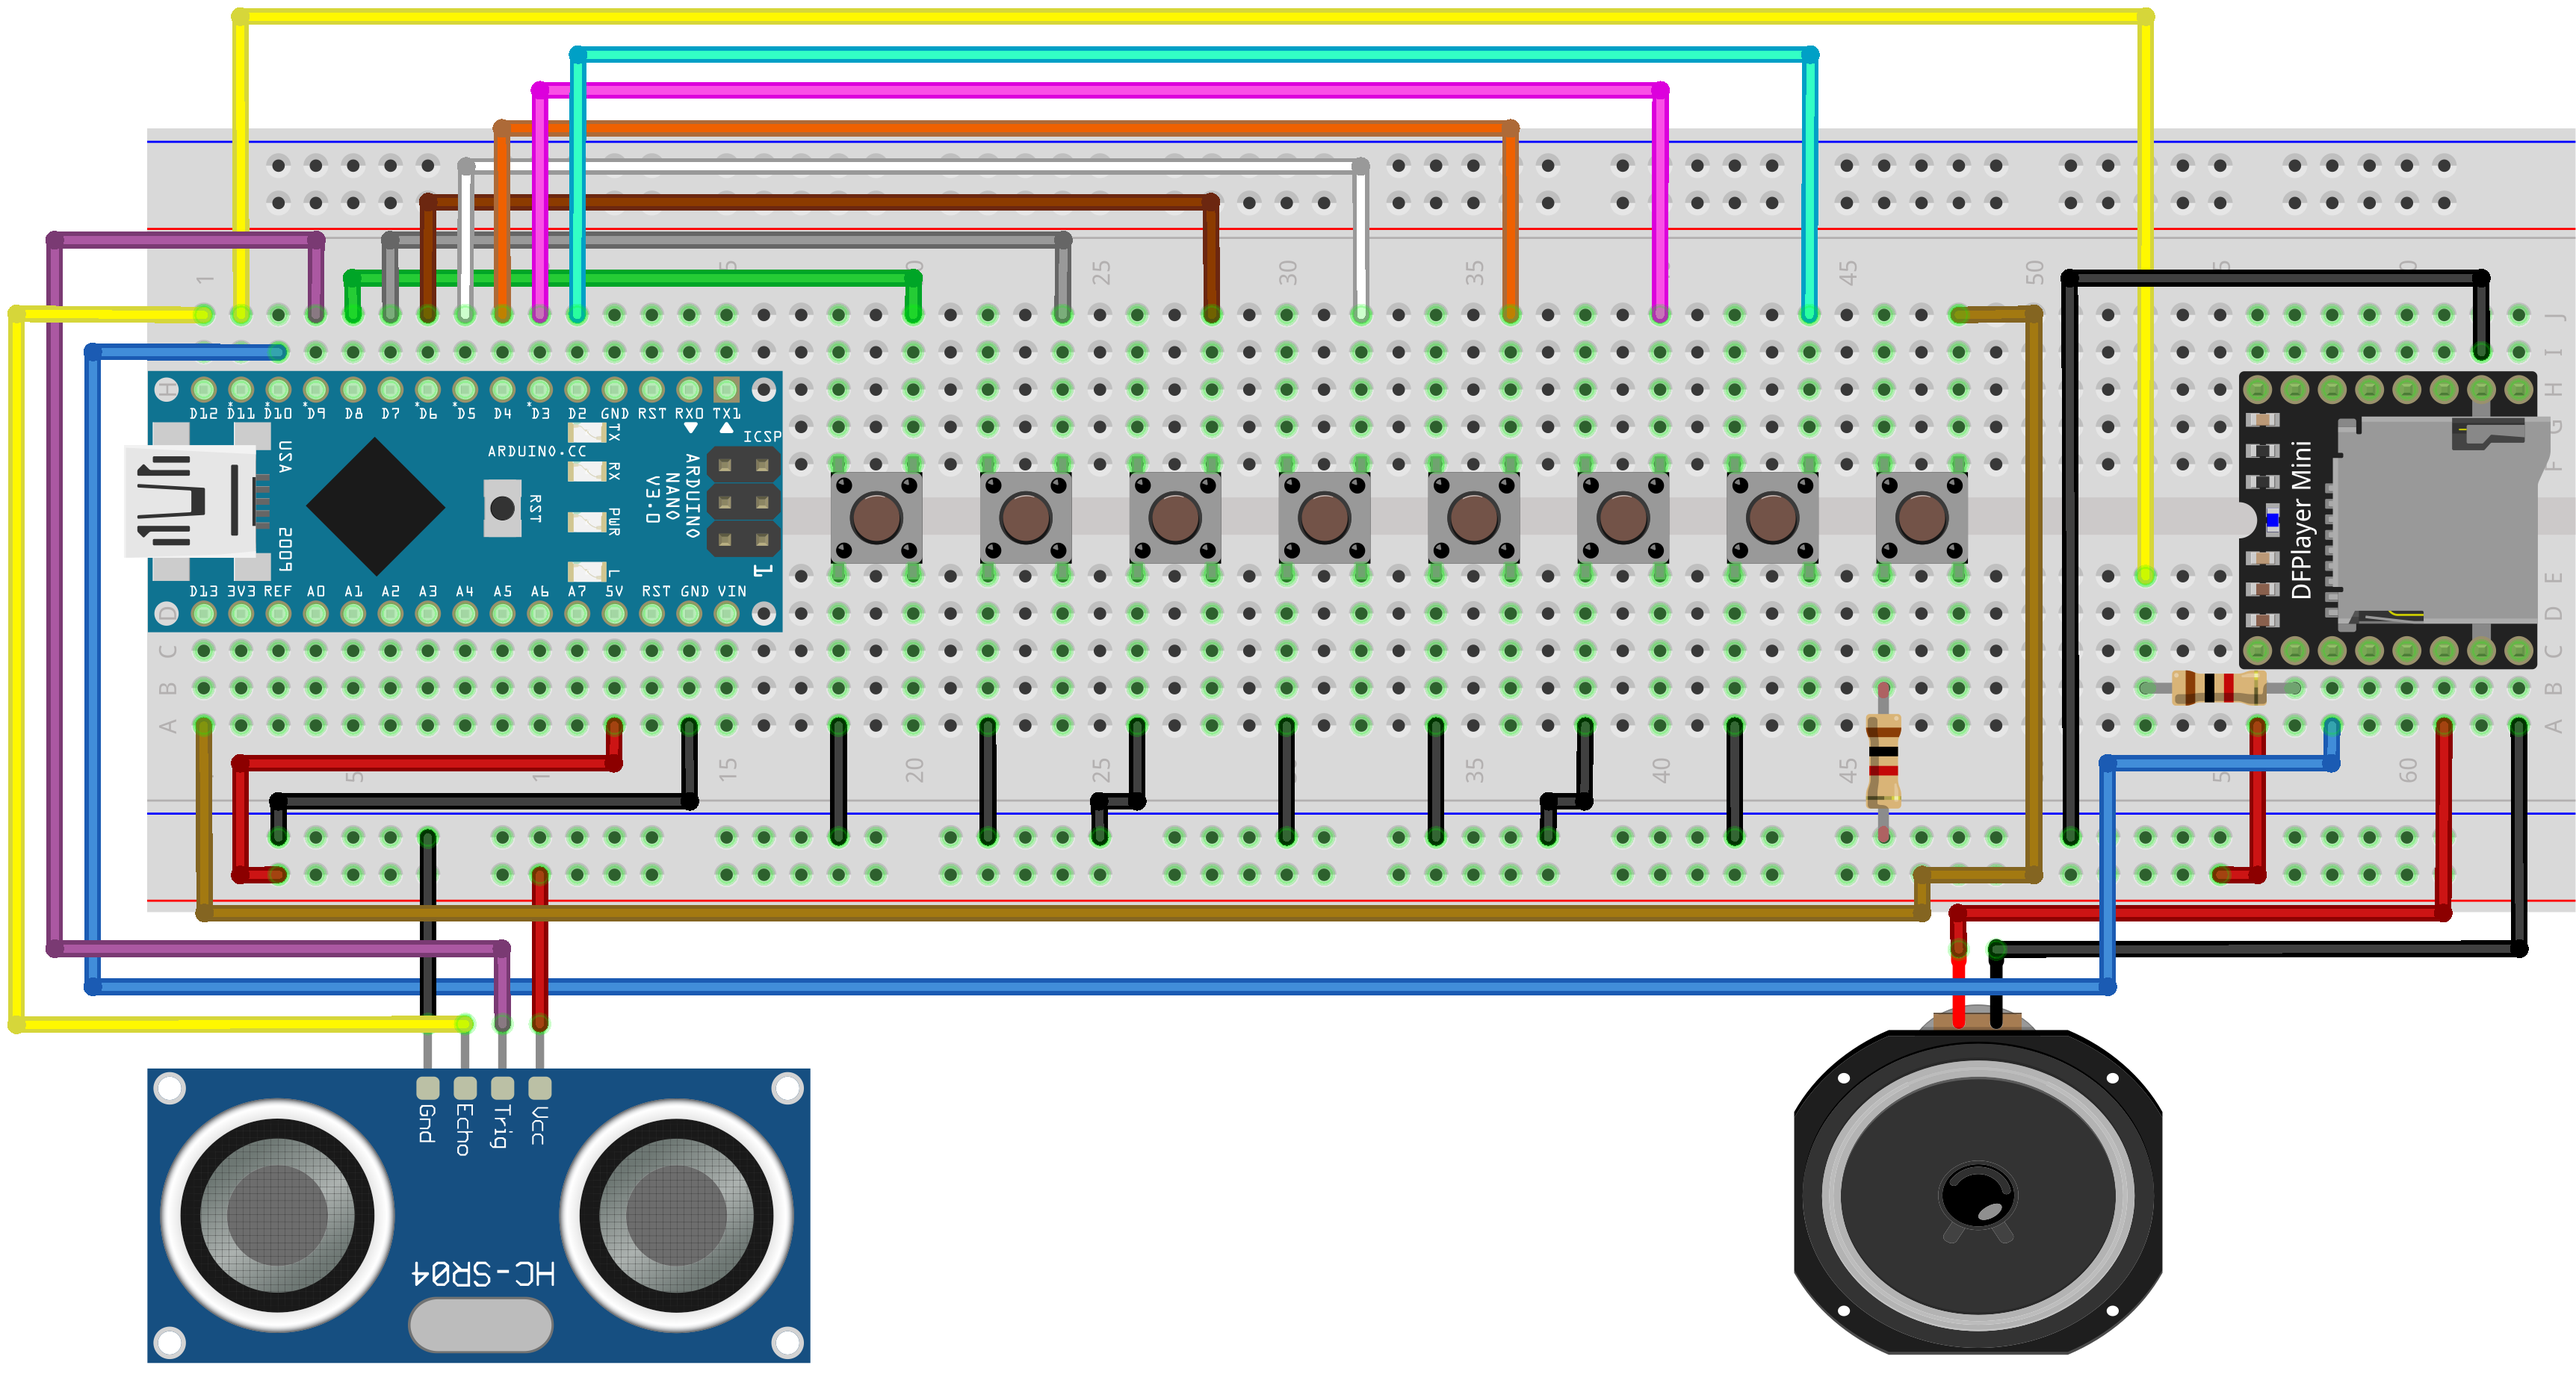
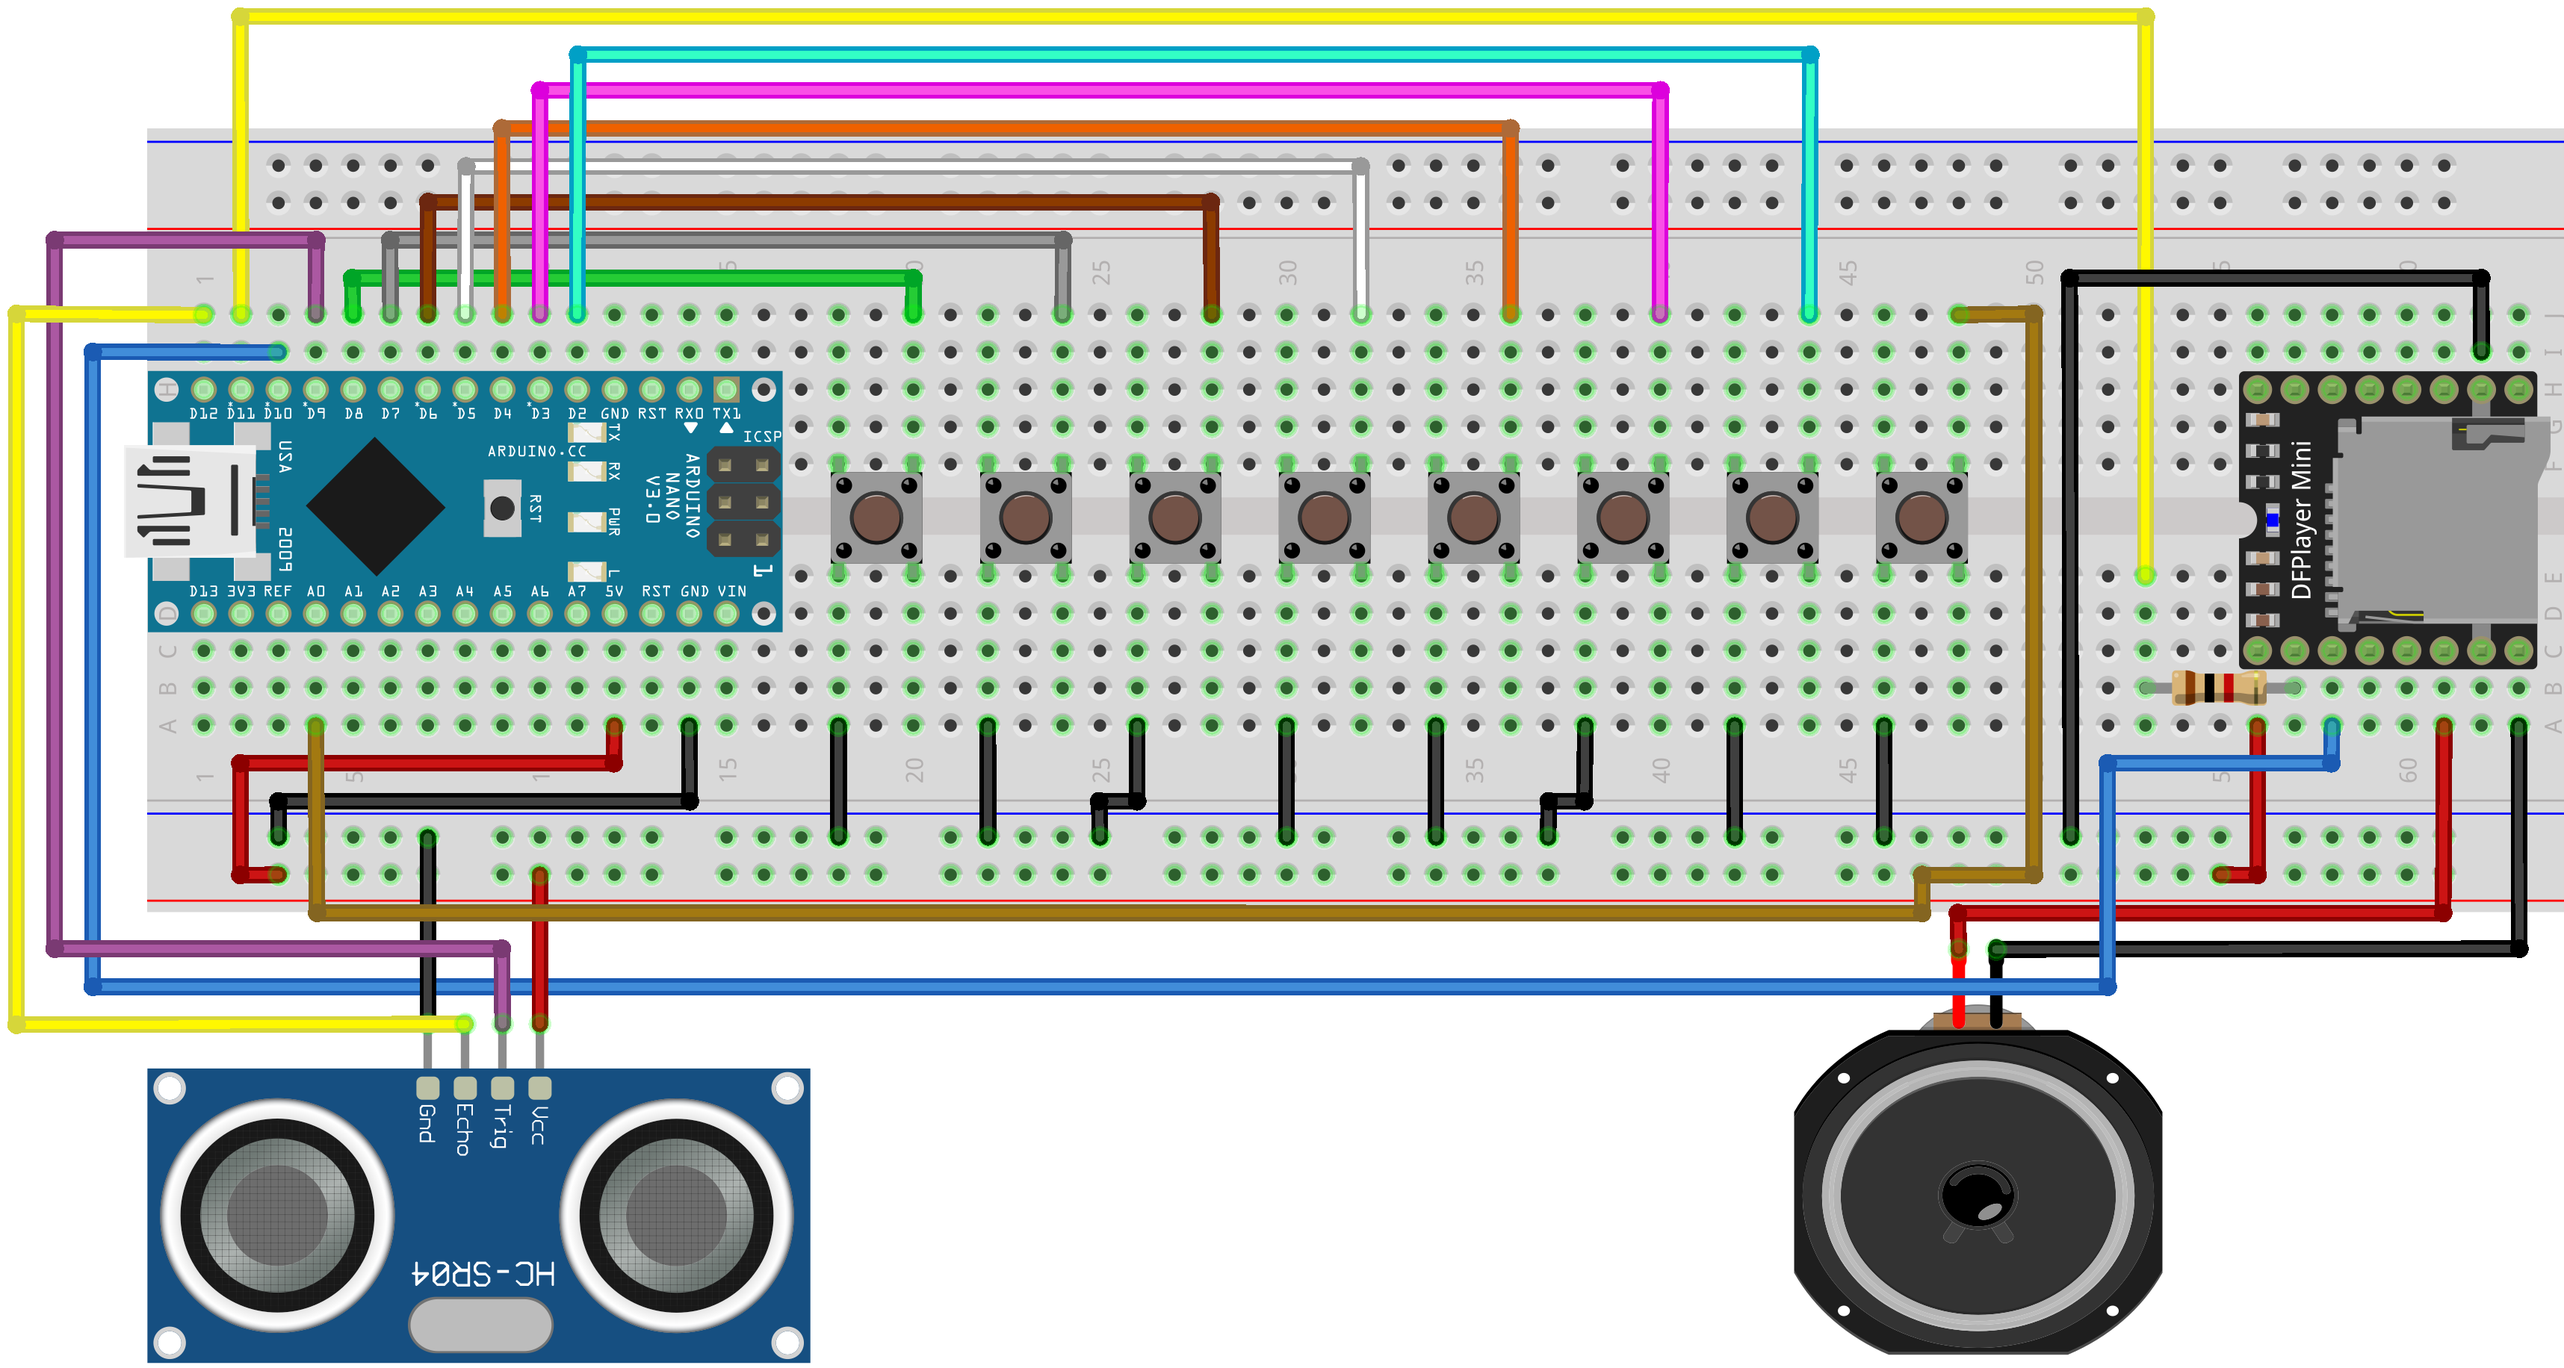
Criação da documentação esp8266 & Atualização da Maquete Tátil

Changed region(s): [[0.0, 0.0, 1.0, 1.0], [0.7483, 0.8401, 0.7794, 0.9023]]

diff --git a/esp8266/esp8266_station/Secrets.h b/esp8266/esp8266_station/Secrets.h
@@ -5,4 +5,4 @@ char pass[] = "senha"; // senha da rede
 //Credentials of ThingSpeak
 const char * myWriteAPIKey = "chave_de_escrita"; // chave de escrita do canal que foi crido
 const char * myReadAPIKey = "chave_de_leitura"; // chave de leitura do canal que foi crido
-const unsigned long myChannelNumber = "numero_canal"; // número do canal que foi crido que foi crido
+const unsigned long myChannelNumber = 9999999; // número do canal que foi crido que foi crido

diff --git a/user_guide/climatic_estations/guide.md b/user_guide/climatic_estations/guide.md
@@ -2,20 +2,27 @@
 
 ## Tipos de Estações
 
-* [Arduino Estation](arduino_estation.md) é uma estação do tipo fixa e que tem acesso a internet via cabo com o módulo Ethernet Shield. A escolha por repoduzir esta estação faz se necessário a instalação das seguintes bibliotecas com as respectivas versões:
+* [Arduino Estation](arduino_station.md) é uma estação do tipo fixa e que tem acesso a internet via cabo com o módulo Ethernet Shield. A escolha por repoduzir esta estação faz se necessário a instalação das seguintes bibliotecas com as respectivas versões:
   
   - Para a placa [Arduino Uno](https://www.arduino.cc/) utilize a lib ```Arduino AVR Boards by Arduino``` na versão __1.8.6__.
   - Para a [HttpClient](https://github.com/amcewen/HttpClient) utilize a lib ```HttpClient by Adrian McEwen <adrianm@mcqn.com>``` na versão __2.2.0__.
   - Para a [Ethernet](https://www.arduino.cc/) utilize a lib ```Ethernet by Various (see AUTHORS file for details)``` na versão __2.0.2__.
   - Para o sensor [Adafruit BMP085](https://github.com/adafruit/Adafruit-BMP085-Library) utilize a lib ```Adafruit BMP085 Library by Adafruit``` na versão __1.2.4__.
 
-* [ESP32C3 Estation](esp32c3_estation.md) é uma estação do tipo móvel que se conecta a internet via WiFi e pode ser transportada para outros locais sem que exista a necessidade de cabos para isso. A escolha por repoduzir esta estação faz se necessário a instalação das seguintes bibliotecas com as respectivas versões
+* [ESP32C3 Estation](esp32c3_station.md) é uma estação do tipo móvel que se conecta a internet via WiFi e pode ser transportada para outros locais sem que exista a necessidade de cabos para isso. A escolha por repoduzir esta estação faz se necessário a instalação das seguintes bibliotecas com as respectivas versões
   
   - Para a placa [Esp32c3](https://github.com/espressif/arduino-esp32) utilize a lib ```esp32 by Espressif Systems``` na versão __3.0.0-alpha3__.
   - Para o sensor [Adafruit BMP280](https://github.com/adafruit/Adafruit_BMP280_Library) utilize a lib ```Adafruit BMP280 Library by Adafruit``` na versão __2.6.8__.
   - Para o [SPI](https://github.com/adafruit/Adafruit_BusIO) utilize a lib ```Adafruit BusyIO by Adafruit``` na versão __1.15.0__.
   - Para o [WiFi](https://www.arduino.cc/reference/en/libraries/wifi/) utilize a lib ```WiFi by Arduino``` na versão __1.2.7__.
   
+* [ESP8266 Estation](esp8266_station.md) também é uma estação do tipo móvel que se conecta a internet via WiFi e pode ser transportada para outros locais sem que exista a necessidade de cabos para isso. A escolha por repoduzir esta estação faz se necessário a instalação das seguintes bibliotecas com as respectivas versões
+  
+  - Para a placa [Esp8266](https://github.com/esp8266/Arduino) utilize a lib ```esp8266 by ESP8266 Community``` na versão __3.1.2__.
+  - Para o sensor [Adafruit BMP280](https://github.com/adafruit/Adafruit_BMP280_Library) utilize a lib ```Adafruit BMP280 Library by Adafruit``` na versão __2.6.8__.
+  - Para o [SPI](https://github.com/adafruit/Adafruit_BusIO) utilize a lib ```Adafruit BusyIO by Adafruit``` na versão __1.15.0__.
+  - Para o [ESP8266WiFi](https://github.com/esp8266/Arduino/tree/master/libraries/ESP8266WiFi) utilize a lib ```esp8266 by ESP8266 Community``` na versão __3.1.2__.
+
 ## Bibliotecas Padrão
 
 Antes de escolher o tipo da estação para qualquer uma delas que será resproduzida deverá ser feita a instalação das bibliotecas a seguir com as respectivas versões:
@@ -23,3 +30,5 @@ Antes de escolher o tipo da estação para qualquer uma delas que será resprodu
 * Para o [ThingSpeak](https://thingspeak.com/) utilize a lib ```ThingSpeak by MathWorks <support@thingspeak.com>``` na versão __2.0.1__.
 * Para o sensor [DHT 11/22](https://github.com/adafruit/DHT-sensor-library)
  utilize a lib ```DHT sensor library by Adafruit``` na versão __1.4.6__.
+
+__Obsrvação__ a lib do WiFi da Esp8266 já deve vir inclusa quando se instala a lib da placa.

diff --git a/user_guide/marquete_tatil/arduino_nano_maquete_tatil.md b/user_guide/marquete_tatil/arduino_nano_maquete_tatil.md
@@ -10,7 +10,7 @@
 * Sensor Ultrason
 * Módulo MP3
 * 8 Push Buttons
-* 2 Resistores de 1kΩ
+* 1 Resistores de 1kΩ
 * Cartão MicroSD
 
 OBS: O cabo USB Mini pode ser encontrado também em câmeras antigas, e a fonte de celular na maioria dos casos serve.
@@ -19,7 +19,19 @@ OBS: O cabo USB Mini pode ser encontrado também em câmeras antigas, e a fonte 
 
 ![Esquema elétrico da Maquete](/user_guide/assets/arduino_nano_maquete_tatil.png)
 
-Observe as conexões na imagem acima e veja que para reproduzir o esquema elétrico da maquete corretamente, as conexões tem que estar de acordo com a imagem. O Ultrason deverá ser conectado nas portas __D9 = Trig -> fio roxo__ e __D12 = Echo -> fio amarelo__, O Módulo MP3 deverá usar as portas __TX = D11 -> fio amarelo__ e __RX = D10 -> fio azul__ da placa. Já os Push Buttons serão conectados da porta __D8__ a __D2__, e também a __D13 -> fio marrom claro__ sendo importante resaltar que esta deverá conter este resitor de 1kΩ na conexão ao gnd, __GND = terra -> fio preto__, __VCC = 5v -> fio vermelho__.
+Observe as conexões na imagem acima e veja que para reproduzir o esquema elétrico da maquete corretamente, as conexões tem que estar de acordo com a imagem. O Ultrason deverá ser conectado nas portas __D9 = Trig -> fio roxo__ e __D12 = Echo -> fio amarelo__, O Módulo MP3 deverá usar as portas __TX = D11 -> fio amarelo__ e __RX = D10 -> fio azul__ da placa. Já os Push Buttons serão conectados da porta __D8__ a __D2__, e também na porta analógia __A0 -> fio marrom claro__, __GND = terra -> fio preto__, __VCC = 5v -> fio vermelho__.
+
+## Instrução de formatação do SD Card
+
+Para conseguir utilizar o módulo __MP3__ corretamente é necessário fazer a formatação do __MicroSD__ para o tipo de sistema de arquivos ```FAT32``` e com o nome da mídia em minúsculo, tudo junto sem acentos e sem espaços em branco, depois de formatado você deverá criar um diretório com o seguinte padrão de nome ```01, 02, ..., 99``` e dentro desse diretório os arquivos de mídia deverão ser do tipo ```.mp3```, e nomeados no seguinte padrão ```001.mp3, 002.mp3, ..., 999.mp3``` dessa forma será possível reproduzir todos os arquivos.
+
+Veja o exemplo abaixo:
+
+├── meu_sdcard<br>
+│ &nbsp; &nbsp; &nbsp; └── 01 <br>
+│ &nbsp; &nbsp; &nbsp; &nbsp; &nbsp; &nbsp; &nbsp; &nbsp; ├── 001.mp3<br>
+│ &nbsp; &nbsp; &nbsp; &nbsp; &nbsp; &nbsp; &nbsp; &nbsp; ├── 002.mp3<br>
+│ &nbsp; &nbsp; &nbsp; &nbsp; &nbsp; &nbsp; &nbsp; &nbsp; └── 003.mp3<br>
 
 ## Intruções para Execução
 
@@ -27,7 +39,7 @@ Para reproduzir corretamente o exemplo desta Maquete selecione o modelo correto 
 
 Para o exemplo em questão utilize os códigos do [seguinte diretório](/arduino_nano/arduino_nano_maquete_tatil/). 
 
-Em seguida faça upload do código para o Arduino Nano, caso tudo corra bem em poucos instantes será possível visualizar que deu certo no __Monitor Serial__ do Arduino-IDE e ao testar o projeto.
+Em seguida coloque o SD Card devidamente formatado com os arquivos de áudio no módulo MP3, e faça upload do código para o Arduino Nano, caso tudo corra bem em poucos instantes será possível visualizar que deu certo no __Monitor Serial__ do Arduino-IDE e ao testar o projeto.
 
 ## Observações
 

diff --git a/user_guide/climatic_estations/esp8266_estation.md b/user_guide/climatic_estations/esp8266_estation.md
@@ -1,0 +1,38 @@
+# Estação ESP8266
+
+## Material para Reprodução
+
+* Esp8266
+* Protoboard
+* Fonte 12v
+* Cabo Micro A/B
+* Jumpers
+* Sensor DHT22
+* Sensor BMP280
+* Sensor LDR
+* 2 Resistores de 10kΩ
+
+OBS: O cabo micro A/B, em resumo cabo de celular antigo, que deve suportar a transferência de dados, caso contário não conseguirá subir o código para a placa, e a fonte de celular na maioria dos casos serve.
+
+## Esquema de Conexões
+
+![Esquema elétrico da estação](/user_guide/assets/esp8266_station.png)
+
+Observe as conexões na imagem acima e veja que para reproduzir a estação corretamente, as conecões tem que estar exatamente de acordo com o esquema. O BMP280 deverá ser conectado nas seguintes portas __SDA = D2 -> fio roxo, SCL = D1 -> fio azul, SDO = D5 -> fio marrom, CSB = D3 -> fio branco__. O LDR devera usar a porta analógica __A0 -> fio amarelo__ da placa. Já o DHT22 deverá usar a porta digital __D7 -> fio amarelo__, __GND = terra -> fio preto__, __VCC = 5v -> fio vermelho__.
+
+## Intruções para Execução
+
+Para reproduzir corretamente o exemplo desta estação selecione o modelo da placa clicando em ```Tools/Ferramentas```, logo após ache a opção ```Board/Placa``` e procure ```esp8266```, em seguida clique na opção ```NodeMCU 1.0 (ESP-12E Module)```.
+
+Primeiramente troque as variáveis no arquivo ```Secrets.h``` e defina corretamente as credênciais que serão utilizadas para se conectar ao __ThingSpeak__ e a __Rede__.
+
+Para o exemplo em questão utilize os códigos do [seguinte diretório](/esp8266/esp8266_station/). 
+
+Em seguida faça upload do código para a Esp8266, caso tudo corra bem em poucos instantes será possível visualizar o envio dos dados capturados tanto no __Monitor Serial__ do Arduino-IDE quanto no ThingSpeak.
+
+## Observações
+
+Caso haja algum problema verifique as versões das libs instaladas e verifique as conexões dos sensores.
+
+Se estiver tentando subir o código para placa pelo Linux, ao conectar a placa não esqueça de dar a permissão ```sudo chmod 777 /dev/ttyUSB0```. 
+
